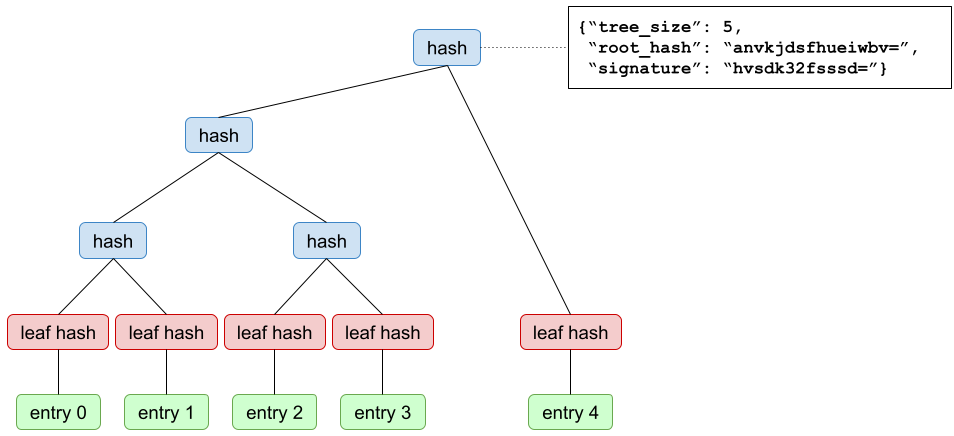
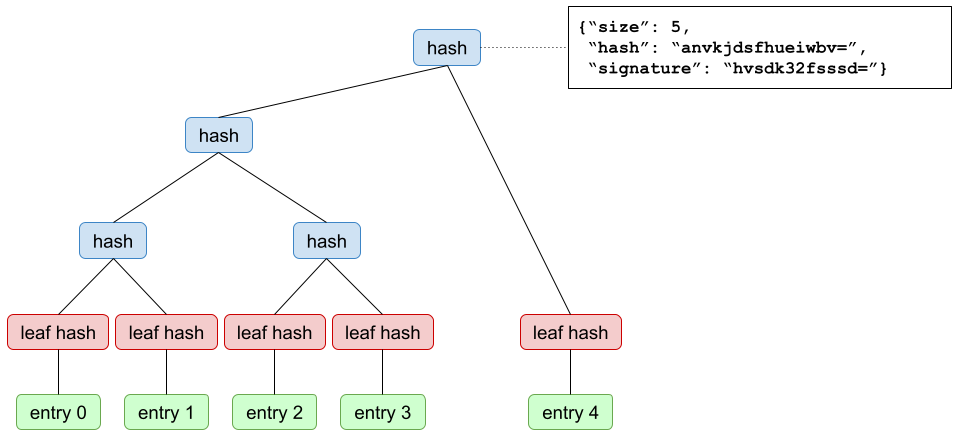
updating terminology and making diagram backgrounds white (#2513)

Changed region(s): [[0.608, 0.0298, 0.9423, 0.1491]]

diff --git a/docs/VerifiableDataStructures-Latest.md b/docs/VerifiableDataStructures-Latest.md
@@ -1,0 +1,89 @@
+
+# Verifiable Data Structures
+
+The Google TrustFabric team
+
+*Last updated in May 2021*
+
+### Introduction 
+
+Much of life relies on trust in various authorities. In the internet realm, site owners trust Certificate Authorities to issue certificates, mail clients may trust a key server to return the right public key for a recipient they wish to mail to, server administrators trust their package distributors to send them binaries for their software. In the real world, citizens trust land registries to accurately record who owns which land.  
+
+This paper describes a number of data structures and their applications that allow adding transparency to the trust model, allowing an ecosystem to evolve from pure trust, to trust but verify. By adding transparency to services, trust can be verified by the ecosystems that depend upon them.
+
+### Verifiable Logs 
+
+The first structure we describe is an append-only log. It begins empty and is mutated only by entries being appended to it. Once an entry has been accepted by the log, it can never be removed or changed. Periodically the log publishes a *checkpoint* that includes a commitment to all entries for a given log size. Clients of the log can: 
+1. Enumerate all entries held in the log. 
+2. Verify that a specific entry is included in the log, given just a checkpoint and an inclusion proof. 
+3. Verify the append-only property of the log, given two checkpoints and a consistency proof. 
+
+Furthermore, the fact that it is possible to efficiently check that a log is append-only makes it efficient to detect *split-view attacks*, assuming a sufficient *gossip protocol* is in place for the log checkpoints.
+
+One common instantiation of a verifiable log is a Merkle tree, for example as described in [RFC6962](https://tools.ietf.org/html/rfc6962) and implemented in [Trillian](https://github.com/google/trillian).
+
+![Verifiable log](vds/verifiableLog.png)
+
+### Verifiable Maps 
+
+The next structure we describe is a verifiable map. A verifiable map is a map from a set of keys to a corresponding set of values. Periodically the map publishes a signed map checkpoint that includes a commitment to all of its entries.
+
+Clients of the map can: 
+1. Enumerate all key/value pairs held in the map. 
+2. Retrieve the value (or indication of nonpresence) for a key, and verify that this is included (or not present) in the map at a point in time, given a map checkpoint and an inclusion proof.
+
+Unlike for a verifiable log, there is no inherent way to efficiently verify that a map is append-only (see [this article](https://transparency.dev/articles/logs-vs-maps/) for more discussion).  This in turn makes it hard to innately detect split-view attacks on maps that evolve over time, but we discuss below ways to address this.
+
+One common instantiation of a verifiable map is the Sparse Merkle Tree described in [Revocation Transparency](http://sump2.links.org/files/RevocationTransparency.pdf) and implemented in [Trillian](https://github.com/google/trillian/tree/master/experimental/batchmap).
+
+![Verifiable map](vds/verifiableMap.png)
+
+
+### Verifiable Log-Derived Map (VLDM)
+
+A verifiable log-derived map is a verifiable map created from a verifiable log in a deterministic and verifiable manner. The signed map checkpoint incorporates a log checkpoint, attesting that the map has included entries committed to by that checkpoint.
+
+In this manner a client gets the convenience of verifiable answers provided by a map, and the consistency guarantees provided by the underlying log. Any party willing to download and replay the entire log can verify the correct behavior of the map over time. 
+
+This data structure can be used for arbitrary log entries and derivation functions, as long as these functions are deterministic. Importantly, the verifiable map may in fact be operated by an entirely different party than the backing log.
+
+For example, a third party Certificate Transparency monitor might choose to expose a verifiable map that maps domain names (as keys) to a set of X.509 certificates (as values). Such a monitor may expose a verifiable map based upon a Certificate Transparency log operated by another party.
+
+In order to address the difficulties of efficiently detecting split-view attacks on maps, all signed map checkpoints can be published to a separate verifiable log, called the map checkpoint log (MCL for short), which makes all checkpoints published by the map available. This log ensures that clients can verify that the version of the map they have been shown is globally visible.  As with the map, the MCL may be operated by another party.
+
+1. Entries in the log are used to populate the map.
+
+![VLBM1](vds/VLDM1.png)
+
+2. The log periodically publishes checkpoints.
+
+3. The map consumes log entries in order and periodically publishes a new map checkpoint, incorporating a specific log checkpoint.
+
+![VLBM2](vds/VLDM2.png)
+
+4. Published map checkpoints are written to a verifiable log.
+
+5. This map checkpoint log also periodically publishes its own checkpoints.
+
+![VLBM3](vds/VLDM3.png)
+
+### Summary 
+
+The following table summarizes properties of the data structures laid out above.
+“Efficiently” means that a client can and should perform this validation
+themselves. “Full audit” means that to validate correctly, a client would need
+to download the entire dataset, and is something that in practices we expect a
+small number of dedicated auditors to perform, rather than being done by each
+client. 
+
+Operation | Log | Map | Log-derived Map 
+------------- | :-----------------: | :-----------------: | :----------------------------------:
+Prove inclusion of value | Yes, efficiently | Yes, efficiently | Yes, efficiently 
+Prove non-inclusion of value | Impractical | Yes, efficiently | Yes, efficiently 
+Retrieve provable value for key | Impractical | Yes, efficiently | Yes, efficiently 
+Retrieve provable current value for key | Impractical | No | Yes, efficiently 
+Prove append-only | Yes, efficiently | No | Yes, efficiently, although full audit is required to verify complete correct operation. 
+Enumerate all entries | Yes, by full audit | Yes, by full audit | Yes, by full audit 
+Prove correct operation | Yes, efficiently | No | Yes, by full audit 
+Enable detection of split-views | Yes, efficiently | No | Yes, efficiently
+
